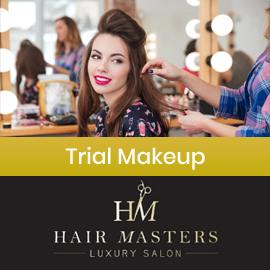
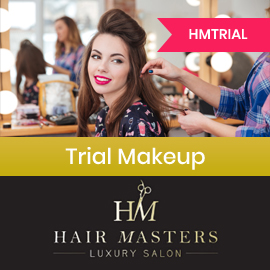
fixed card page design & added copon code in offer graphics

Changed region(s): [[0.5926, 0.0593, 1.0, 0.2074]]

diff --git a/assets/css/custom.css b/assets/css/custom.css
@@ -6074,3 +6074,35 @@ label.register-resend-seconds {
 .booking-body {
     padding-top: 15px;
 }
+
+.bmm-cards {
+    padding: 15px;
+    min-height: 450px;
+}
+
+.bmm-cards .card-body {
+    padding: 0px;
+    padding-top: 20px;
+}
+
+.bmm-cards .card-body h3 {
+    font-size: 20px;
+    font-weight: bold;
+    color: var(--pink);
+}
+
+.bmm-cards .bmm-card-btns {
+    margin-top: 20px;
+    display: flex;
+    gap: 15px;
+}
+
+.bmm-cards ul {
+    margin: 0px;
+    padding: 0px;
+    margin-left: 20px;
+}
+
+.bmm-cards ul li {
+    /* list-style: none; */
+}

diff --git a/cards.php b/cards.php
@@ -4,8 +4,8 @@
     <h2 class="text-center h2-heading">CARDS</h2>
     <div class="container">
         <div class="row" id="card-list">
-            <div class="col-lg-6 mb-4">
-                <div class="card" style="padding: 30px; margin:30px">
+            <div class="col-lg-4 mb-4">
+                <div class="card bmm-cards">
                     <img src="" class="img-fluid">
                     <div class="card-body">
                         <h3 class="card-name"></h3>
@@ -31,8 +31,8 @@
                     // console.log(result);
                     let data = "";
                     result.result.forEach(function(val) {
-                        data += `<div class="col-lg-6 mb-4">
-                            <div class="card" style="padding: 30px; margin:30px">
+                        data += `<div class="col-lg-4 mb-4">
+                            <div class="card bmm-cards">
                             <img src="${val.image}" class="img-fluid">
                             <div class="card-body">
                             <h3>${val.card_name}</h3>
@@ -43,8 +43,10 @@
                                 <li>Card Category : ${val.category}.</li>
                                 <li>No Joining Fee , No Annual Fee</li>
                             </ul>
-                            <a href="membership-card-checkout?card-id=${val.id}" class="btn btn-pink buy-card m-2">Buy Now</a>
-                            <a href="membership-card-detail?card-id=${val.id}" class="btn btn-pink know-more m-2">Know More</a>
+                            <div class="bmm-card-btns">
+                            <a href="membership-card-checkout?card-id=${val.id}" class="btn btn-pink buy-card">Buy Now</a>
+                            <a href="membership-card-detail?card-id=${val.id}" class="btn btn-pink know-more">Know More</a>
+                            </div>
                             </div>
                             </div>
                         </div>`

diff --git a/home.php b/home.php
@@ -309,6 +309,15 @@
                     </div>
                 </a>
             </div>
+            <div class="item">
+                <a href="offers">
+                    <div class="product-box">
+                        <img src="assets/images/combo6.jpg" alt="">
+                        <p class="font-weight-bold mt-2">Hair Masters</p>
+                        <p class="font-weight-bold"><s class="text-red">RS. 1000</s><span class="ml-2 text-green">RS. 500</span></p>
+                    </div>
+                </a>
+            </div>
         </div>
         <!-- <div class="row">
                 <div class="col-md-3">
